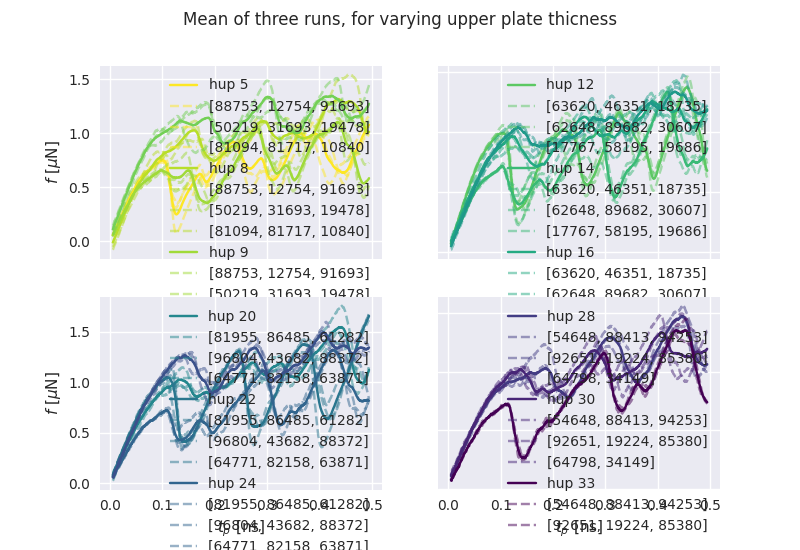
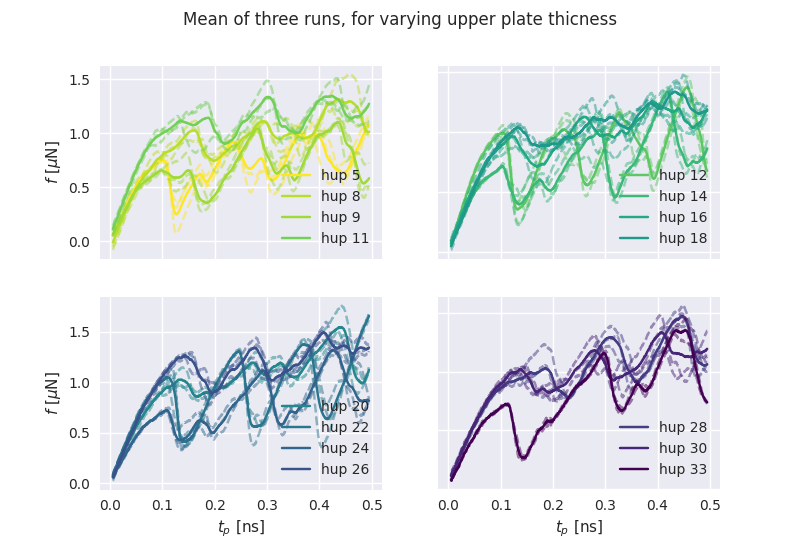
removed labels from 0.5 opacityp lots

Changed region(s): [[0.2188, 0.1236, 0.4688, 1.0], [0.625, 0.1236, 0.9062, 0.9891]]

diff --git a/python/plot/plot_load_curves.py b/python/plot/plot_load_curves.py
@@ -109,7 +109,7 @@ def plot_load_curves_as_funciton_of_top_thiccness():
             c = plt.cm.viridis((max_hup - hup[i])/(max_hup - min_hup + 0.01))
             axs[j].plot(load_curves[0,:,0], load_curves[0,:,1], c=c, label = f'hup {hup[i]}' )
             for l in range(len(seed)):
-                axs[j].plot(load_curves_all[l,:,0], load_curves_all[l,:,1], '--', alpha = 0.5, c=c, label=seeds[l])
+                axs[j].plot(load_curves_all[l,:,0], load_curves_all[l,:,1], '--', alpha = 0.5, c=c)
             axs[j].legend()
             i += 1
             
